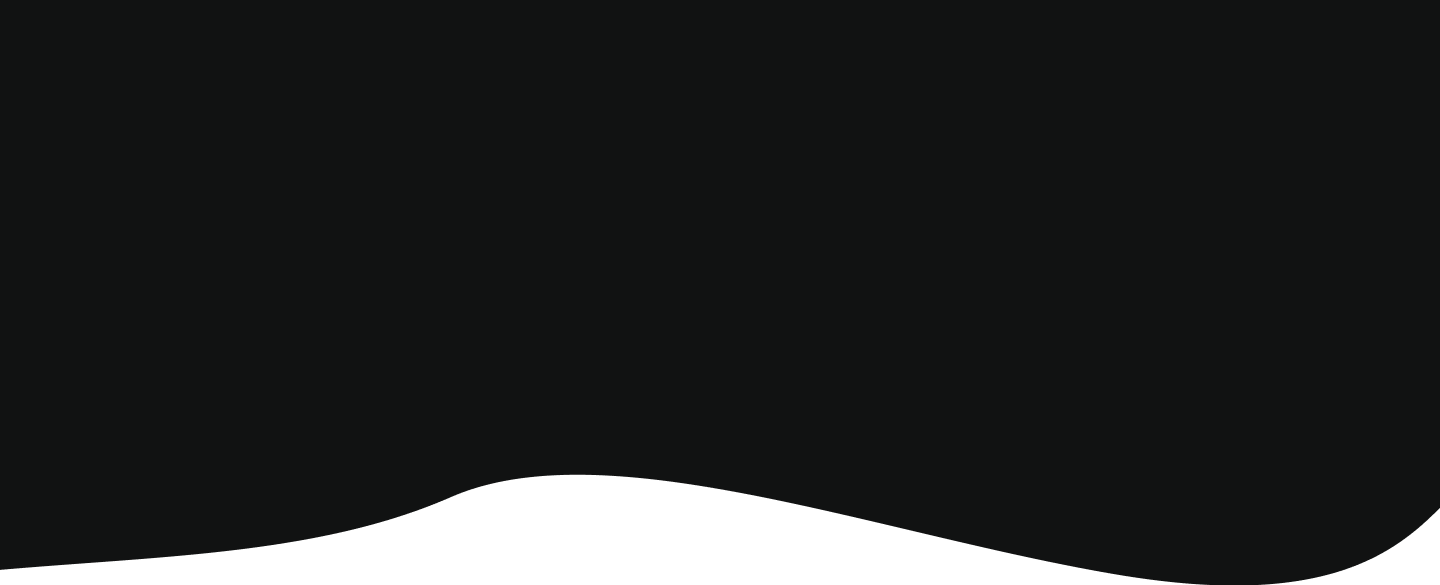
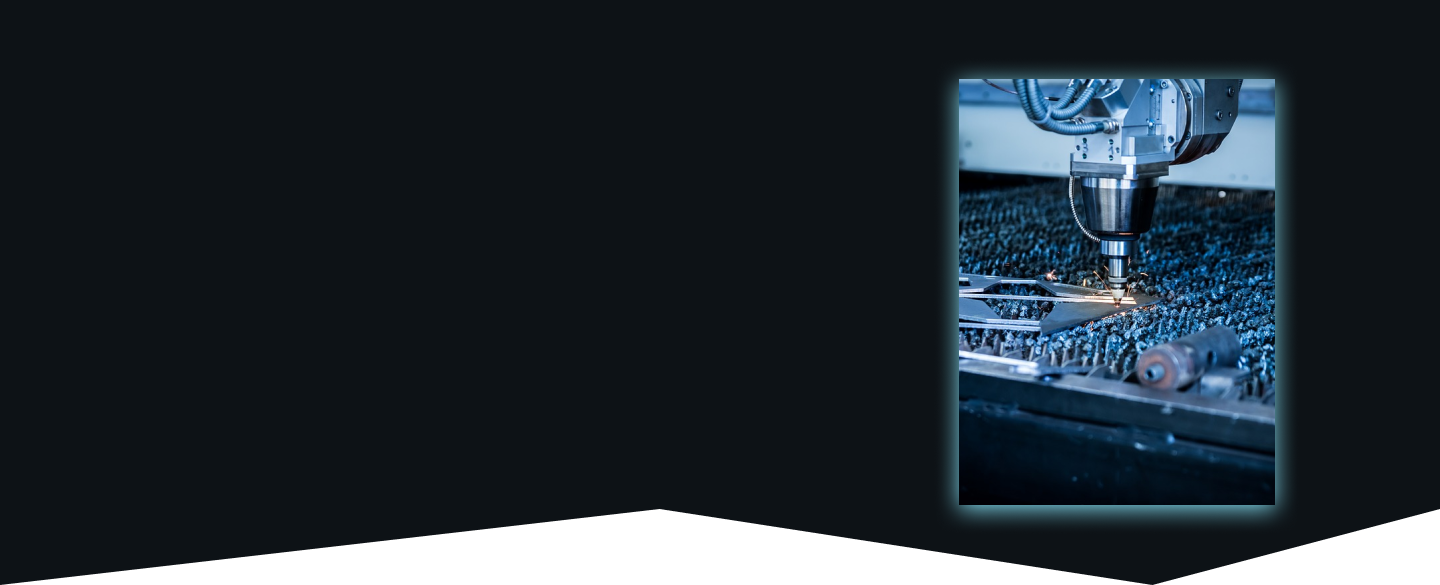
removed the four images and added only one image in jumbotron

Changed region(s): [[0.0, 0.0923, 1.0, 1.0]]

diff --git a/style.css b/style.css
@@ -45,7 +45,7 @@
   height: 75vh;
   display: flex;
   justify-content: space-evenly;
-  background-image: url("./assets/background_3.png");
+  background-image: url("./assets/background.png");
   background-size: 100% 100%;
 }
 
